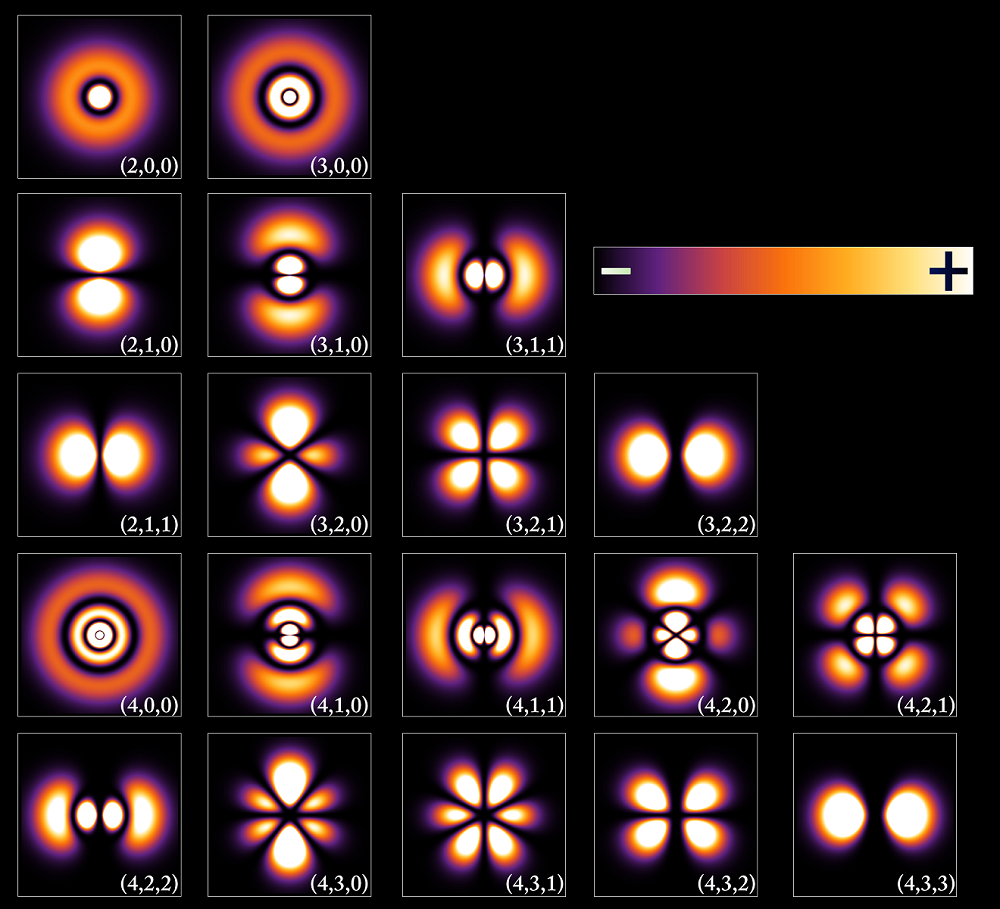
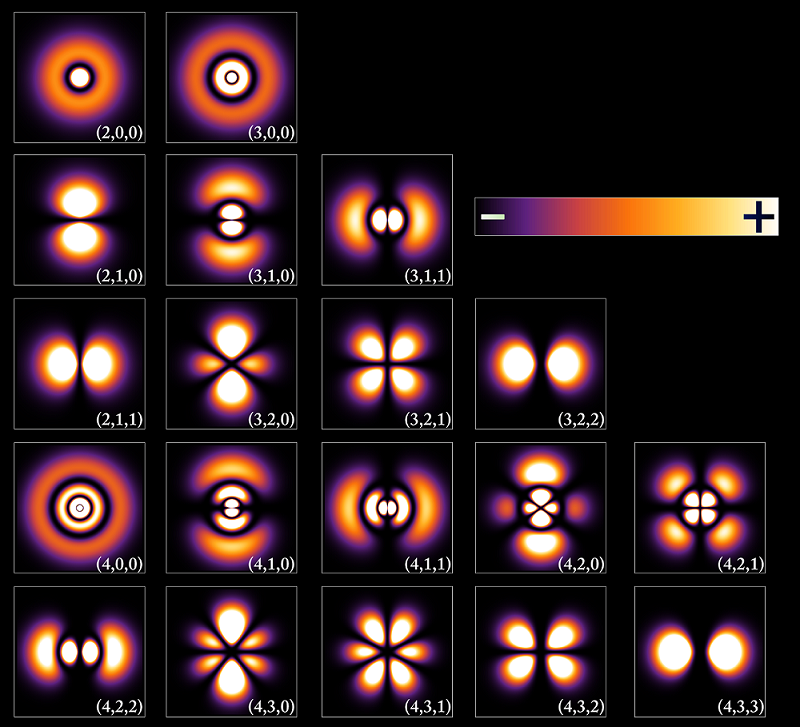
批量修改
* 缩小图片节约 pdf 尺寸

diff --git a/contents/Set.tex b/contents/Set.tex
@@ -69,6 +69,6 @@ A\times B=\{ (0,2),(0,3),(0,4),(1,2),(1,3),(1,4),(2,2),(2,3),(2,4),(3,2),(3,3),(
 不可数集是指无法和可数集建立双射的无穷集合，它们都严格大于可数集．由 \textbf{Cantor 定理}可知，对于任何集合（不论有限无限）$A$，$|A|<|2^A|$严格成立．我们把可数集的基数记为$\aleph_0$；如果集合$A$的基数为$\aleph_n$，那么定义$|2^A|=\aleph_{n+1}$． 实数集的基数被定义为$\aleph$，利用Cantor-Bernstein定理可以证明$\aleph=\aleph_1$. 
 
 集合论中的基本难题，连续统假设，猜测在$\aleph_0$和$\aleph$之间没有别的无穷基数，即不存在一个集合，严格大于整数集而又严格小于实数集．很不幸的是，连续统假设对于目前公认的集合论公理系统（ZFC公理）是一个独立命题，即无法证明．
-\phi
+
 \subsection{拓展}
 目前为止我们只介绍了集合之间的运算以及集合中元素的数目，但没有对集合本身建立一个结构．从基数的角度来看，只要两个集合之间存在一一对应，那么就可以把它们看作同一个集合，因为在我们的讨论范围里它们都是完全一致的（只讨论了基数）．但是这样很无聊，没有太多研究的意义，因此数学家们开始给集合赋予各种各样的结构，进一步细分集合的分类，由此诞生了拓扑学、代数学等分支．现代数学的绝大部分分支都是通过给集合赋予结构来描述的，可以说集合论是现代数学的基石，几乎每一条数学定理都是集合论的定理．

diff --git a/contents/edTODO.tex b/contents/edTODO.tex
@@ -4,8 +4,6 @@
 \subsection{Editor BUG}
 
 \begin{itemize}
-\item \verb|Set.tex| 的预览中 “基数和无穷的概念” 的最后有一个多余的 \verb|\phi|
-
 \item 符号替换设置打开时， json 编辑窗自动格式太慢， 是否考虑直接使用正确的格式保存文件， 而不是打开后再格式化？
 
 \item 为什么\href{https://docs.julialang.org/en/v1/manual/unicode-input/}{这个 Julia 文档页面}中的 \lstinline|\varphi| 和 \lstinline|\phi| 粘贴到浏览器（包括符号替换规则窗口）中之后显示出来是调换的？

diff --git a/contents/elecdy.tex b/contents/elecdy.tex
@@ -2,9 +2,9 @@
 
 \subsection{磁标势推导}
 \begin{equation}
-\oint_L \bvec H \cdot \dd  l = \int_S \bvec J \cdot \dd S
-
-\end{equation}当$S$内无电流亦环路$L$内无电流时
+\oint_L \bvec H \cdot \dd{l} = \int_S \bvec J \cdot \dd{S}
+\end{equation}
+当$S$内无电流亦环路$L$内无电流时
 \begin{equation}
 \oint_ L\bvec H \cdot \dd \bvec l = 0
 \end{equation}
